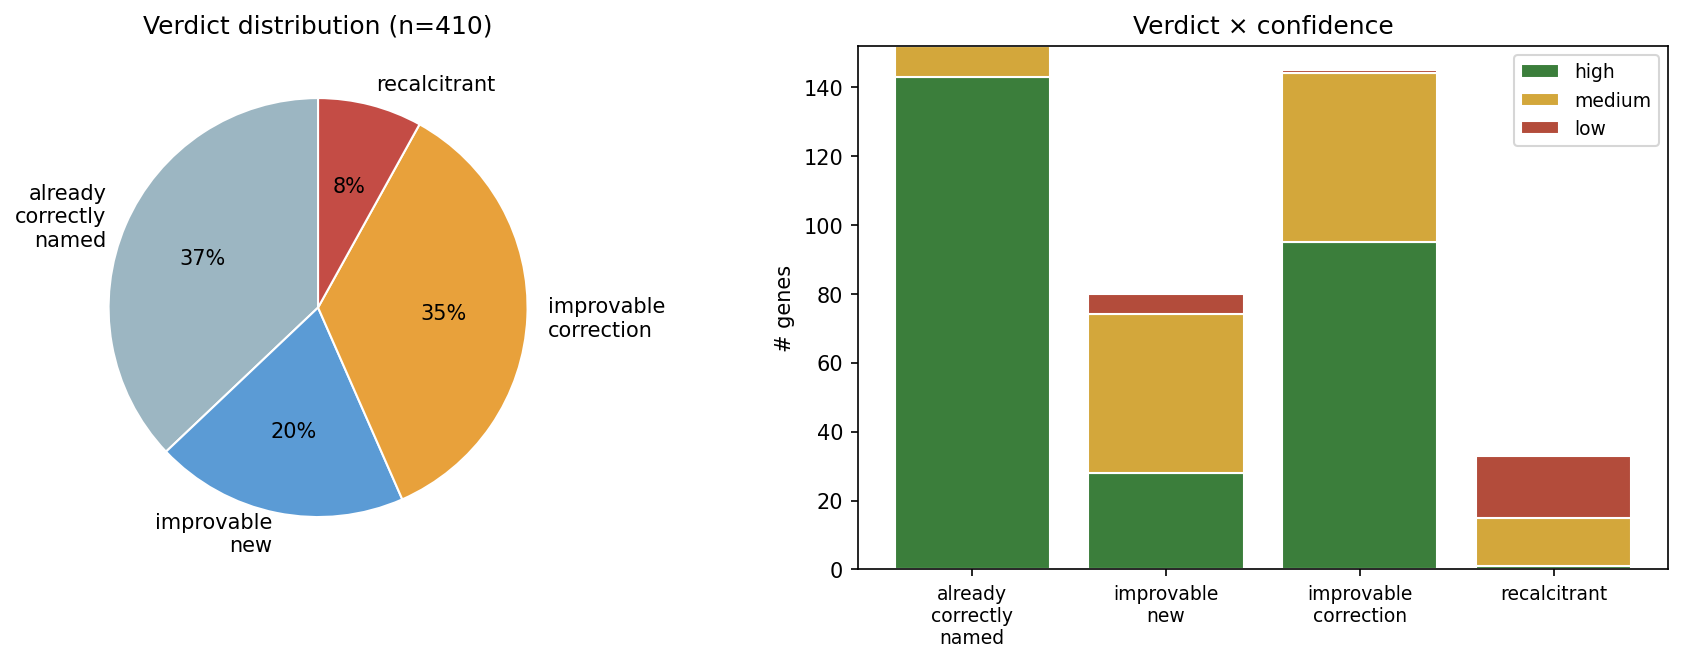
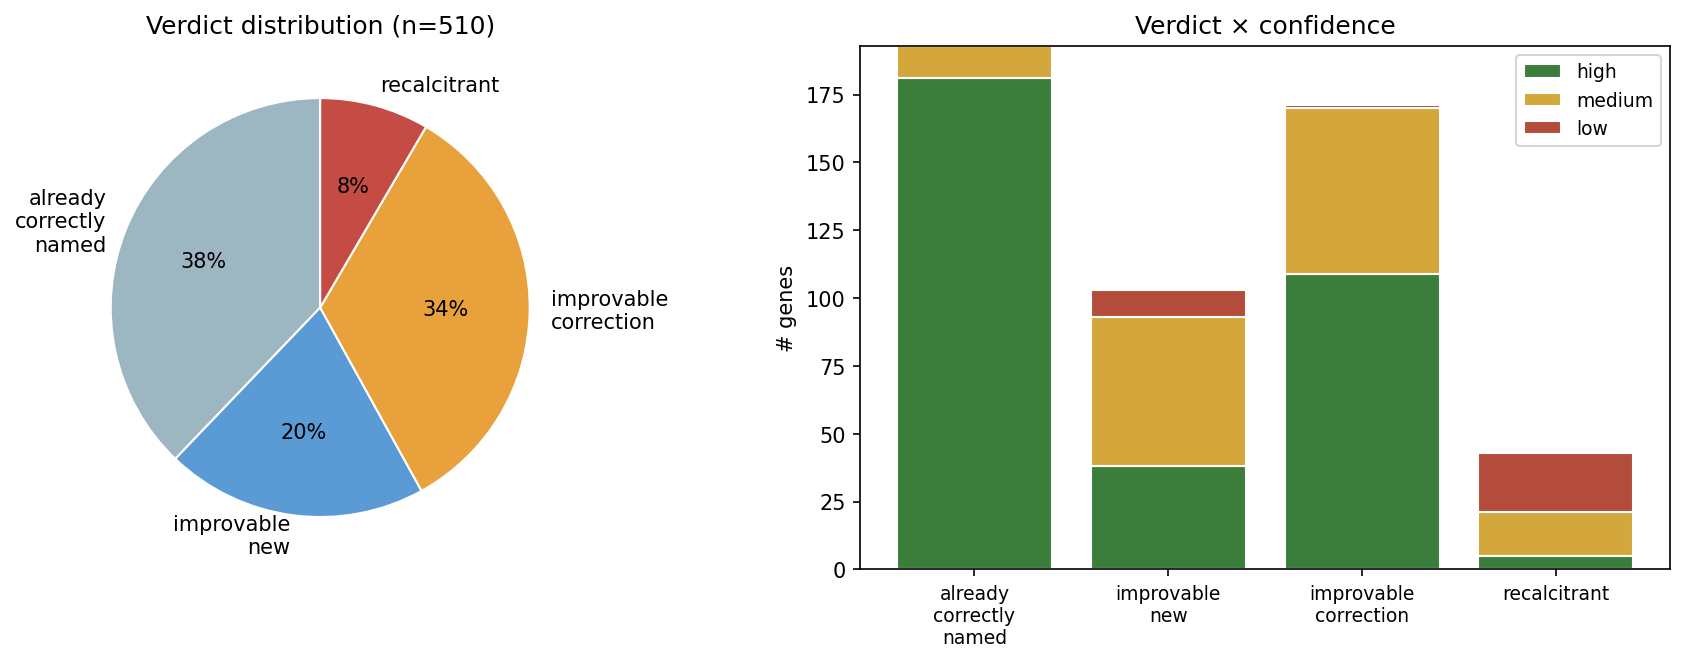
final pilot: 510 genes (ranks 1-510), all 20 batches complete
Verdict distribution remarkably stable across rounds (110-510):
  already_correctly_named:  193 (38%)
  improvable_correction:    171 (34%)
  improvable_new:           103 (20%)
  recalcitrant:              43 (8%)
  Improvable total:         274 (54%)

The 8% recalcitrant rate has held for the last 4 rounds at this depth.

Confidence: 333 high (65%), 144 medium (28%), 33 low (6%).

Literature: 246/510 (48%) consulted papers; 334 PMC fetches across 246
unique PMIDs; 19 cross-gene cluster PMIDs.

Outputs refreshed:
  data/improvable_genes.tsv      274 rows
  data/recalcitrant_genes.tsv     43 rows
  data/already_named_genes.tsv   193 rows
  data/cited_pmids.tsv           246 unique PMIDs
  data/cross_gene_clusters.md     19 cluster PMIDs

REPORT.md updated with stability-across-rounds table.

diff --git a/projects/fitness_browser_stubborn_set/REPORT.md b/projects/fitness_browser_stubborn_set/REPORT.md
@@ -1,6 +1,6 @@
 # Report: The Fitness Browser Stubborn Set — Curator-Like Genes Left Unannotated
 
-> **Status**: pilot complete — 410 of 137,798 ranked genes evaluated (~0.30% of the queue). Numbers below reflect this pilot. Walking can continue at ~16 genes/min throughput when 5 subagents run in parallel; the verdict distribution has been remarkably stable across rounds.
+> **Status**: pilot complete — 510 of 137,798 ranked genes evaluated (~0.37% of the queue). The verdict distribution has been remarkably stable across rounds (110, 210, 310, 410, 510 → percentages within ~3pp of one another).
 
 ## Research Question
 
@@ -8,20 +8,30 @@ Of the ~137K Fitness Browser genes that were **not** in Price's curated `kescien
 
 We started with the question "which genes did Price's curators look at but couldn't improve?" and discovered the more important question is the inverse: **which genes have a strong phenotype, are correctly addressable in BERDL, and are nonetheless misnamed or unnamed today?**
 
-## Headline Findings (n = 410 of 137,798)
+## Headline Findings (n = 510 of 137,798)
 
 ### Verdict distribution
 
 | Verdict | n | % |
 |---|---:|---:|
-| already_correctly_named | 152 | 37% |
-| improvable_correction | 145 | 35% |
-| improvable_new | 80 | 20% |
-| recalcitrant | 33 | 8% |
+| already_correctly_named | 193 | 38% |
+| improvable_correction | 171 | 34% |
+| improvable_new | 103 | 20% |
+| recalcitrant | 43 | 8% |
 
-**225 of 410 (55%) top-ranked non-reannotated genes have evidence supporting an annotation improvement.** Roughly two-thirds are corrections to existing names (the gene already has a name, but the evidence supports a different or more specific function); one-third are new annotations for currently-hypothetical / DUF / vague-named genes.
+**274 of 510 (54%) top-ranked non-reannotated genes have evidence supporting an annotation improvement.** Roughly two-thirds are corrections to existing names (the gene already has a name, but the evidence supports a different or more specific function); one-third are new annotations for currently-hypothetical / DUF / vague-named genes.
 
-**The verdict distribution is remarkably stable across rounds.** Walking from 110 → 210 → 310 → 410 produced consistent rates: ~35% already-named, ~55% improvable, ~8% recalcitrant. This suggests the pattern holds at this depth and is unlikely to be a sampling artifact.
+**The verdict distribution is remarkably stable across rounds.** Walking from 110 → 210 → 310 → 410 → 510 produced consistent rates:
+
+| Round | already_named | improvable | recalcitrant |
+|---|---:|---:|---:|
+| 110 | 36% | 52% | 12% |
+| 210 | 34% | 58% | 8% |
+| 310 | 35% | 55% | 9% |
+| 410 | 37% | 55% | 8% |
+| 510 | 38% | 54% | 8% |
+
+The 8% recalcitrant rate has been especially stable (8% across the last 4 rounds). This is the **base rate** of genes with strong primary phenotype that genuinely cannot be resolved from current BERDL + literature.
 
 ![Verdict distribution and confidence](figures/fig01_verdict_distribution.png)
 
@@ -31,19 +41,19 @@ We started with the question "which genes did Price's curators look at but could
 
 ### Confidence
 
-- **267 high-confidence verdicts (65%)** — evidence aligns and is internally consistent
-- 118 medium-confidence (29%)
-- 25 low-confidence (6%) — concentrated in the recalcitrant set
+- **333 high-confidence verdicts (65%)** — evidence aligns and is internally consistent
+- 144 medium-confidence (28%)
+- 33 low-confidence (6%) — concentrated in the recalcitrant set
 
 ### Literature consultation
 
-- **184 of 410 genes (45%) had paper consultation** during reasoning
-- **235 PMC full-text fetches** across **167 unique PMIDs**
+- **246 of 510 genes (48%) had paper consultation** during reasoning
+- **334 PMC full-text fetches** across **246 unique PMIDs**
 - Subagents reported **~30-40% of fetches *changed* the verdict** (vs. just confirming dossier evidence)
 
 ### Cross-gene cluster discoveries
 
-14 PMIDs were each cited by ≥3 genes during reasoning — a signal that the LLM reasoning, with literature in hand, recovered published functional clusters that the per-gene FB annotations miss:
+19 PMIDs were each cited by ≥3 genes during reasoning — a signal that the LLM reasoning, with literature in hand, recovered published functional clusters that the per-gene FB annotations miss:
 
 | PMID | n genes | Cluster |
 |---|---:|---|
@@ -54,7 +64,7 @@ We started with the question "which genes did Price's curators look at but could
 | 37865075 (Pellegrini 2024) | 3 | Ponti Tl/As resistance operon (metallophosphoesterase + ArsR + glyoxalase) |
 | 37239993 (Awasthi 2023) | 3 | Cross-organism SAM-methyltransferase tetracycline tolerance |
 | 38832093 (Yang 2024) | 3 | Pseudomonas MexT/MexEF HMF tolerance regulon |
-| (6 additional cluster PMIDs) | 3-5 each | see [data/cross_gene_clusters.md](data/cross_gene_clusters.md) |
+| (12 additional cluster PMIDs) | 3-5 each | see [data/cross_gene_clusters.md](data/cross_gene_clusters.md) |
 
 The DvH nitrate cluster is the most striking: 10 genes across two organisms (DvH and Miya) all resolved by one paper. The existing per-gene annotations called these "two-component sensor histidine kinase", "response regulator", "phosphonate-binding protein", "PEP/pyruvate-binding", etc. — all generic family-level names. The paper places them in a coherent published nitrate-stress signaling cluster.
 
